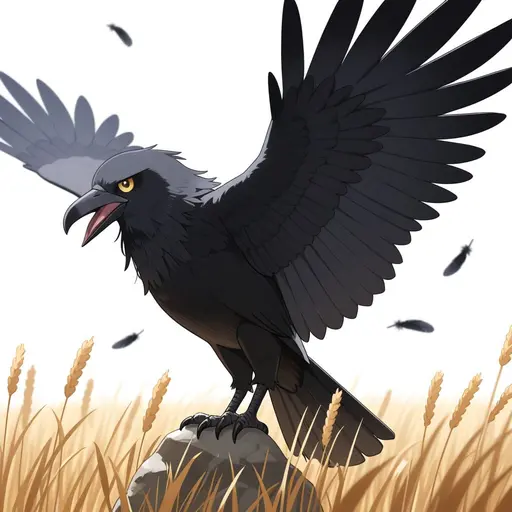
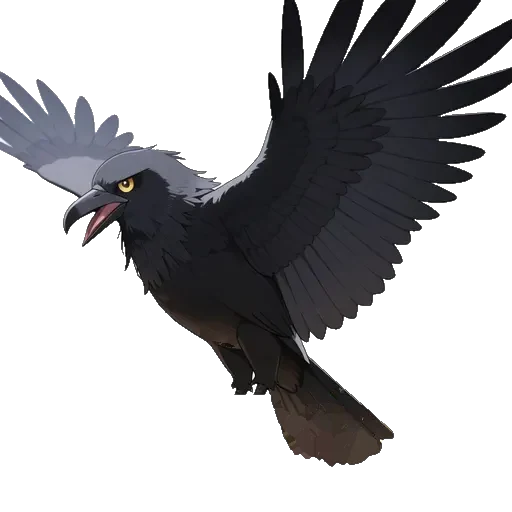
麦畑の大烏と鬼の頭目ゴズの絵を、背景を抜いた絵にする
Claude-Session: https://claude.ai/code/session_012YwxP3CBQhxECLXFTRvaMZ

diff --git a/src/data/changelog.js b/src/data/changelog.js
@@ -9,6 +9,7 @@
       ver: "次の版",
       next: true,
       items: [
+        "麦畑の大烏と鬼の頭目ゴズの絵を、背景（麦畑・月）を抜いた絵にした",
         "人物と魔物の絵 25 体（表情違いを含めて 106 枚）を、背景がきれいに抜けた絵にした（描き直したものと、元の絵のまま背景だけ抜いたもの）",
         "文章の直し：道のりの日数と合わない言い方（町から一日で着く、など）を改め、町の外で「宿の前で」の言伝が出ないようにし、薬草知識の選択肢が祠の出来事に出ないようにし、煙玉の説明・戦闘後の同じ一文の繰り返し・群れの依頼の数え方・白金トロフィーの手がかりを直した",
         "ルールの細かい直し：名のある強敵の格を強さに合わせ（段の低い個体は C 級）、酒場や訓練場で教わる技に使える武器を出し（今の武器で使えない技は薄く）、仲間の好感度が下がったときは理由を一行出すように（酒場で雇った仲間は日ごとには下がらない。好感度の括弧は段の名前だけ）。探索中に薬草を自分に使えるように、訓練場の押せない稽古は理由ごとに一行に、戦闘中は押せない「振り直す」を出さないように",

diff --git a/CHANGELOG.md b/CHANGELOG.md
@@ -4,6 +4,7 @@
 
 ## 次の版（未公開）
 
+- 麦畑の大烏と鬼の頭目ゴズの絵を、背景（麦畑・月）を抜いた絵にした
 - 人物と魔物の絵 25 体（表情違いを含めて 106 枚）を、背景がきれいに抜けた絵にした（描き直したものと、元の絵のまま背景だけ抜いたもの）
 - 文章の直し：道のりの日数と合わない言い方（町から一日で着く、など）を改め、町の外で「宿の前で」の言伝が出ないようにし、薬草知識の選択肢が祠の出来事に出ないようにし、煙玉の説明・戦闘後の同じ一文の繰り返し・群れの依頼の数え方・白金トロフィーの手がかりを直した
 - ルールの細かい直し：名のある強敵の格を強さに合わせ（段の低い個体は C 級）、酒場や訓練場で教わる技に使える武器を出し（今の武器で使えない技は薄く）、仲間の好感度が下がったときは理由を一行出すように（酒場で雇った仲間は日ごとには下がらない。好感度の括弧は段の名前だけ）。探索中に薬草を自分に使えるように、訓練場の押せない稽古は理由ごとに一行に、戦闘中は押せない「振り直す」を出さないように
